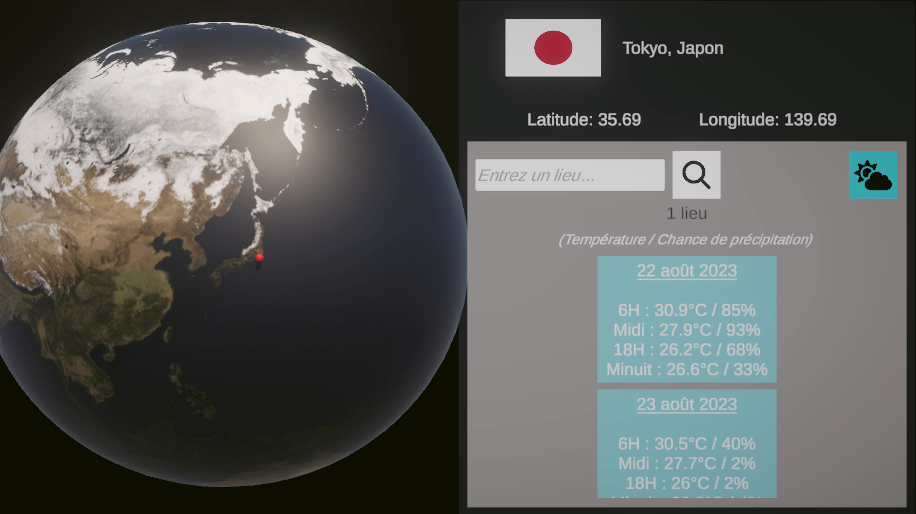
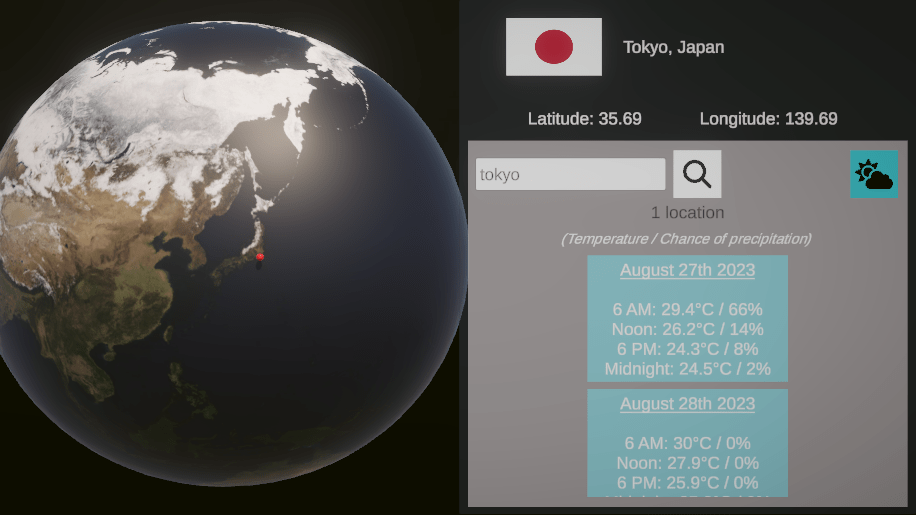
English translation

diff --git a/Assets/Scripts/Serializable Classes/OpenStreetMap.cs b/Assets/Scripts/Serializable Classes/OpenStreetMap.cs
@@ -9,95 +9,95 @@ public class OpenStreetMap
     [XmlElement(ElementName = "relation")]
     public RelationOSM relation;
 
-	[XmlElement(ElementName = "node")]
-	public NodeOSM node;
+    [XmlElement(ElementName = "node")]
+    public NodeOSM node;
 
-	[XmlElement(ElementName = "way")]
-	public WayOSM way;
+    [XmlElement(ElementName = "way")]
+    public WayOSM way;
 
-	public OpenStreetMap()
+    public OpenStreetMap()
     {
-		this.relation = null;
-		this.node = null;
-		this.way = null;
-	}
+        this.relation = null;
+        this.node = null;
+        this.way = null;
+    }
 
-	public OpenStreetMap(string xmlText)
+    public OpenStreetMap(string xmlText)
     {
-		XmlSerializer serializer = new XmlSerializer(typeof(OpenStreetMap));
-		using (StringReader reader = new StringReader(xmlText))
+        XmlSerializer serializer = new XmlSerializer(typeof(OpenStreetMap));
+        using (StringReader reader = new StringReader(xmlText))
         {
-			OpenStreetMap obj = (OpenStreetMap)serializer.Deserialize(reader);
-			this.relation = obj.relation;
-			this.node = obj.node;
-			this.way = obj.way;
-		}
-	}
+            OpenStreetMap obj = (OpenStreetMap)serializer.Deserialize(reader);
+            this.relation = obj.relation;
+            this.node = obj.node;
+            this.way = obj.way;
+        }
+    }
 
-	public List<TagOSM> GetTags()
+    public List<TagOSM> GetTags()
     {
-		/*
-			An OSM object only has either a Relation element, a Node one, or a Way one.
+        /*
+            An OSM object only has either a Relation element, a Node one, or a Way one.
 
-			Therefore, check if an element is null, and if not, check if its tag list is null.
-			If it is, then check the next element, otherwise return the tag list.
-			This tag list may be empty, but at least it's not null.
+            Therefore, check if an element is null, and if not, check if its tag list is null.
+            If it is, then check the next element, otherwise return the tag list.
+            This tag list may be empty, but at least it's not null.
 
-			If for some reason no tag list has been found, then return an empty list.
-		*/
-		return this.relation?.tags ?? this.node?.tags ?? this.way?.tags ?? new List<TagOSM>();
-	}
+            If for some reason no tag list has been found, then return an empty list.
+        */
+        return this.relation?.tags ?? this.node?.tags ?? this.way?.tags ?? new List<TagOSM>();
+    }
 }
 
 public class RelationOSM
 {
-	[XmlElement(ElementName = "tag")]
-	public List<TagOSM> tags;
+    [XmlElement(ElementName = "tag")]
+    public List<TagOSM> tags;
 
-	public RelationOSM()
+    public RelationOSM()
     {
-		this.tags = new List<TagOSM>();
+        this.tags = new List<TagOSM>();
     }
 }
 
 public class NodeOSM
 {
-	[XmlElement(ElementName = "tag")]
-	public List<TagOSM> tags;
+    [XmlElement(ElementName = "tag")]
+    public List<TagOSM> tags;
 
-	public NodeOSM()
-	{
-		this.tags = new List<TagOSM>();
-	}
+    public NodeOSM()
+    {
+        this.tags = new List<TagOSM>();
+    }
 }
 
 public class WayOSM
 {
-	[XmlElement(ElementName = "tag")]
-	public List<TagOSM> tags;
+    [XmlElement(ElementName = "tag")]
+    public List<TagOSM> tags;
 
-	public WayOSM()
-	{
-		this.tags = new List<TagOSM>();
-	}
+    public WayOSM()
+    {
+        this.tags = new List<TagOSM>();
+    }
 }
 
 public class TagOSM
 {
-	[XmlAttribute("k")]
-	public string name;
-	[XmlAttribute("v")]
-	public string value;
+    [XmlAttribute("k")]
+    public string name;
+    [XmlAttribute("v")]
+    public string value;
 
-	public TagOSM()
+    public TagOSM()
     {
-		this.name = null;
-		this.value = null;
+        this.name = null;
+        this.value = null;
     }
 
-	public TagOSM(string name, string value)
+    public TagOSM(string name, string value)
     {
-		this.name = name;
-		this.value = value;
-	}
+        this.name = name;
+        this.value = value;
+    }
 }

diff --git a/Assets/Scripts/API/Forecast.cs b/Assets/Scripts/API/Forecast.cs
@@ -10,14 +10,12 @@ public class Forecast : MonoBehaviour
     [SerializeField] private LocationScriptableObject _location;
     [SerializeField] private Geocoding _geocoding;
     [SerializeField] private GameObject _spinner, _forecastExplanation, _forecastContent;
-    private CultureInfo _frFrench;
-    private DateTimeFormatInfo _frenchInfo;
+    private DateTimeFormatInfo _englishInfo;
     private float _previousLatitude, _previousLongitude;
 
-    void Start()
+    private void Start()
     {
-        _frFrench = new CultureInfo("fr-FR");
-        _frenchInfo = _frFrench.DateTimeFormat;
+        _englishInfo = new CultureInfo("en-US").DateTimeFormat;
         _previousLatitude = _location.Latitude;
         _previousLongitude = _location.Longitude;
     }
@@ -28,6 +26,7 @@ public class Forecast : MonoBehaviour
         int i, j;
         TextMeshProUGUI dayElement;
         int nbrDay = 0, nbrYear = 0;
+        string strDayEnding = "";
         string strMonth = "";
         float[] temperatures;
         int[] precipitationProbabilities;
@@ -70,7 +69,11 @@ public class Forecast : MonoBehaviour
                     if (nbrYear == 0)
                     {
                         nbrDay = days[i].time[j].Day;
-                        strMonth = _frenchInfo.MonthNames[days[i].time[j].Month - 1];
+                        strDayEnding = nbrDay == 1 || nbrDay == 21 || nbrDay == 31 ? "st" 
+                                     : nbrDay == 2 || nbrDay == 22 ? "nd" 
+                                     : nbrDay == 3 || nbrDay == 23 ? "rd" 
+                                     : "th";
+                        strMonth = _englishInfo.MonthNames[days[i].time[j].Month - 1];
                         nbrYear = days[i].time[j].Year;
                     }
 
@@ -78,11 +81,11 @@ public class Forecast : MonoBehaviour
                     precipitationProbabilities[j] = days[i].precipitationProbability[j];
                 }
 
-                dayElement.text = $"<u>{nbrDay} {strMonth} {nbrYear}</u>\n\n" + 
-                $"6H : {temperatures[0]}°C / {precipitationProbabilities[0]}%\n" + 
-                $"Midi : {temperatures[1]}°C / {precipitationProbabilities[1]}%\n" + 
-                $"18H : {temperatures[2]}°C / {precipitationProbabilities[2]}%\n" + 
-                $"Minuit : {temperatures[3]}°C / {precipitationProbabilities[3]}%";
+                dayElement.text = $"<u>{strMonth} {nbrDay}{strDayEnding} {nbrYear}</u>\n\n" + 
+                $"6 AM: {temperatures[0]}°C / {precipitationProbabilities[0]}%\n" + 
+                $"Noon: {temperatures[1]}°C / {precipitationProbabilities[1]}%\n" + 
+                $"6 PM: {temperatures[2]}°C / {precipitationProbabilities[2]}%\n" + 
+                $"Midnight: {temperatures[3]}°C / {precipitationProbabilities[3]}%";
             }
 
             _spinner.SetActive(false);

diff --git a/Assets/Scripts/UI/TextInput.cs b/Assets/Scripts/UI/TextInput.cs
@@ -9,7 +9,7 @@ public class TextInput : MonoBehaviour
     [SerializeField] private UnityEvent _validation;
     /* Geocoding.FetchLocationList */
 
-    void Awake()
+    private void Awake()
     {
         _component = GetComponent<TMP_InputField>();
 
@@ -20,17 +20,23 @@ public class TextInput : MonoBehaviour
         _component.onValueChanged.AddListener(DetectNewLine);
 
         /*
-            Note that the OnEndEdit event is not used because it's not only triggered when the user types a newline (typically the "Enter" key), 
-            but also when the input field is out of focus, so for example when the user clicks outside of the field. This causes the event methods  
-            to be called again, for nothing. Therefore I've implemented my own solution.
+            Note that the OnEndEdit event is not used because it's not only triggered when 
+            the user types a newline (typically the "Enter" key), but also when the input 
+            field is out of focus, so for example when the user clicks outside of the field. 
+            This causes the event methods to be called again, for nothing. Therefore I've 
+            implemented my own solution.
 
-            Basically, the input is a "multi line" with the newline not being seen as validation, but as a mere newline. Then, whenever there's a 
-            change in input, I check the characters to see if a newline has been entered. Of course, the check starts from the end of the string, 
-            because we're interested in newly added characters. If a newline has been detected, the event methods are called.
+            Basically, the input is a "multi line" with the newline not being seen as 
+            validation, but as a mere newline. Then, whenever there's a change in input, 
+            I check the characters to see if a newline has been entered. Of course, the 
+            check starts from the end of the string, because we're interested in newly 
+            added characters. If a newline has been detected, the event methods are called.
 
-            The only downside to this method is that, when the user types in a newline, they would see the input on different lines instead of 
-            just one (since it's "multi line") and style-wise it's not desired. Which is why when the newline is detected I immediately update 
-            the input to remove it. It's seamless and the user doesn't notice a thing.
+            The only downside to this method is that, when the user types in a newline, 
+            they would see the input on different lines instead of just one (since it's 
+            "multi line") and style-wise it's not desired. Which is why when the newline 
+            is detected I immediately update the input to remove it. It's seamless and the 
+            user doesn't notice a thing.
         */
     }
 

diff --git a/Assets/Scripts/API/Geocoding.cs b/Assets/Scripts/API/Geocoding.cs
@@ -74,7 +74,7 @@ public class Geocoding : MonoBehaviour
     private IEnumerator FetchOpenMeteoGeocodingData(Action<List<OmgLocation>> callback)
     {
         string encodedInput = HttpUtility.UrlEncode(_userInput.text);
-        string uri = $"https://geocoding-api.open-meteo.com/v1/search?name={encodedInput}&language=fr";
+        string uri = $"https://geocoding-api.open-meteo.com/v1/search?name={encodedInput}&language=en";
         string jsonText;
         OpenMeteoGeocoding geocoding;
 
@@ -116,7 +116,7 @@ public class Geocoding : MonoBehaviour
         {
             latitude = StringFormat.Float(locations[i].latitude);
             longitude = StringFormat.Float(locations[i].longitude);
-            uri = $"https://nominatim.openstreetmap.org/reverse?lat={latitude}&lon={longitude}&accept-language=fr,en&format=json";
+            uri = $"https://nominatim.openstreetmap.org/reverse?lat={latitude}&lon={longitude}&accept-language=en&format=json";
 
             using (UnityWebRequest webRequest = UnityWebRequest.Get(uri))
             {
@@ -204,7 +204,7 @@ public class Geocoding : MonoBehaviour
     {
         int i;
         _locationList = new List<OmgLocation>();
-        _listCount.text = "0 lieu";
+        _listCount.text = "0 location";
         for (i = 0; i < _locationListContent.childCount; ++i)
             Destroy(_locationListContent.GetChild(i).gameObject);
     }
@@ -218,7 +218,7 @@ public class Geocoding : MonoBehaviour
         if (_locationList.Count == 0 && StringFormat.WordComparison(_userInput.text, "Null Island") || StringFormat.WordComparison(_userInput.text, "Null"))
             _locationList.Add(new OmgLocation(0f, 0f, null, "Null Island"));
 
-        _listCount.text = _locationList.Count < 2 ? $"{_locationList.Count} lieu" : $"{_locationList.Count} lieux";
+        _listCount.text = _locationList.Count < 2 ? $"{_locationList.Count} location" : $"{_locationList.Count} locations";
 
         for (i = 0; i < _locationList.Count; ++i)
         {

diff --git a/Assets/Scripts/API/ReverseGeocoding.cs b/Assets/Scripts/API/ReverseGeocoding.cs
@@ -11,10 +11,10 @@ public class ReverseGeocoding : MonoBehaviour
 {
     public IEnumerator FetchNominatimData(float latitude, float longitude, Action<Nominatim> callback)
     {
-        // Depending on the user's language, the dot in the float will become a comma when inserted in a string
+        // Depending on the user machine's language, the dot in the float will become a comma when inserted in a string
         string strLatitude = StringFormat.Float(latitude);
         string strLongitude = StringFormat.Float(longitude);
-        string uri = $"https://nominatim.openstreetmap.org/reverse?lat={strLatitude}&lon={strLongitude}&accept-language=fr,en&format=json";
+        string uri = $"https://nominatim.openstreetmap.org/reverse?lat={strLatitude}&lon={strLongitude}&accept-language=en&format=json";
 
         string jsonText;
         Nominatim nominatim;
@@ -104,13 +104,11 @@ public class ReverseGeocoding : MonoBehaviour
 
     private string GetTranslation(List<TagOSM> tags)
     {
-        string french = null, english = null, international = null, native = null;
+        string english = null, international = null, native = null;
 
         foreach (TagOSM tag in tags)
         {
-            if (tag.name == "name:fr")
-                french = tag.value;
-            else if (tag.name == "name:en")
+            if (tag.name == "name:en")
                 english = tag.value;
             else if (tag.name == "int_name")
                 international = tag.value;
@@ -118,6 +116,6 @@ public class ReverseGeocoding : MonoBehaviour
                 native = tag.value;
         }
 
-        return french ?? english ?? international ?? native;
+        return english ?? international ?? native;
     }
 }

diff --git a/Assets/Scripts/Scriptable Objects/LocationScriptableObjectScript.cs b/Assets/Scripts/Scriptable Objects/LocationScriptableObjectScript.cs
@@ -14,7 +14,7 @@ public class LocationScriptableObjectScript : MonoBehaviour
     [SerializeField] private TextMeshProUGUI _menuLocationName;
     private string _menuLocationNameDefault;
 
-    void Start()
+    private void Start()
     {
         ResetLocationData();
         _menuLocationNameDefault = _menuLocationName.text;

diff --git a/README.md b/README.md
@@ -1,4 +1,4 @@
-# Weather Forecast
+# 3D Weather Forecast
 
 3D weather forecast app with a rotative Earth made with Unity.
 
